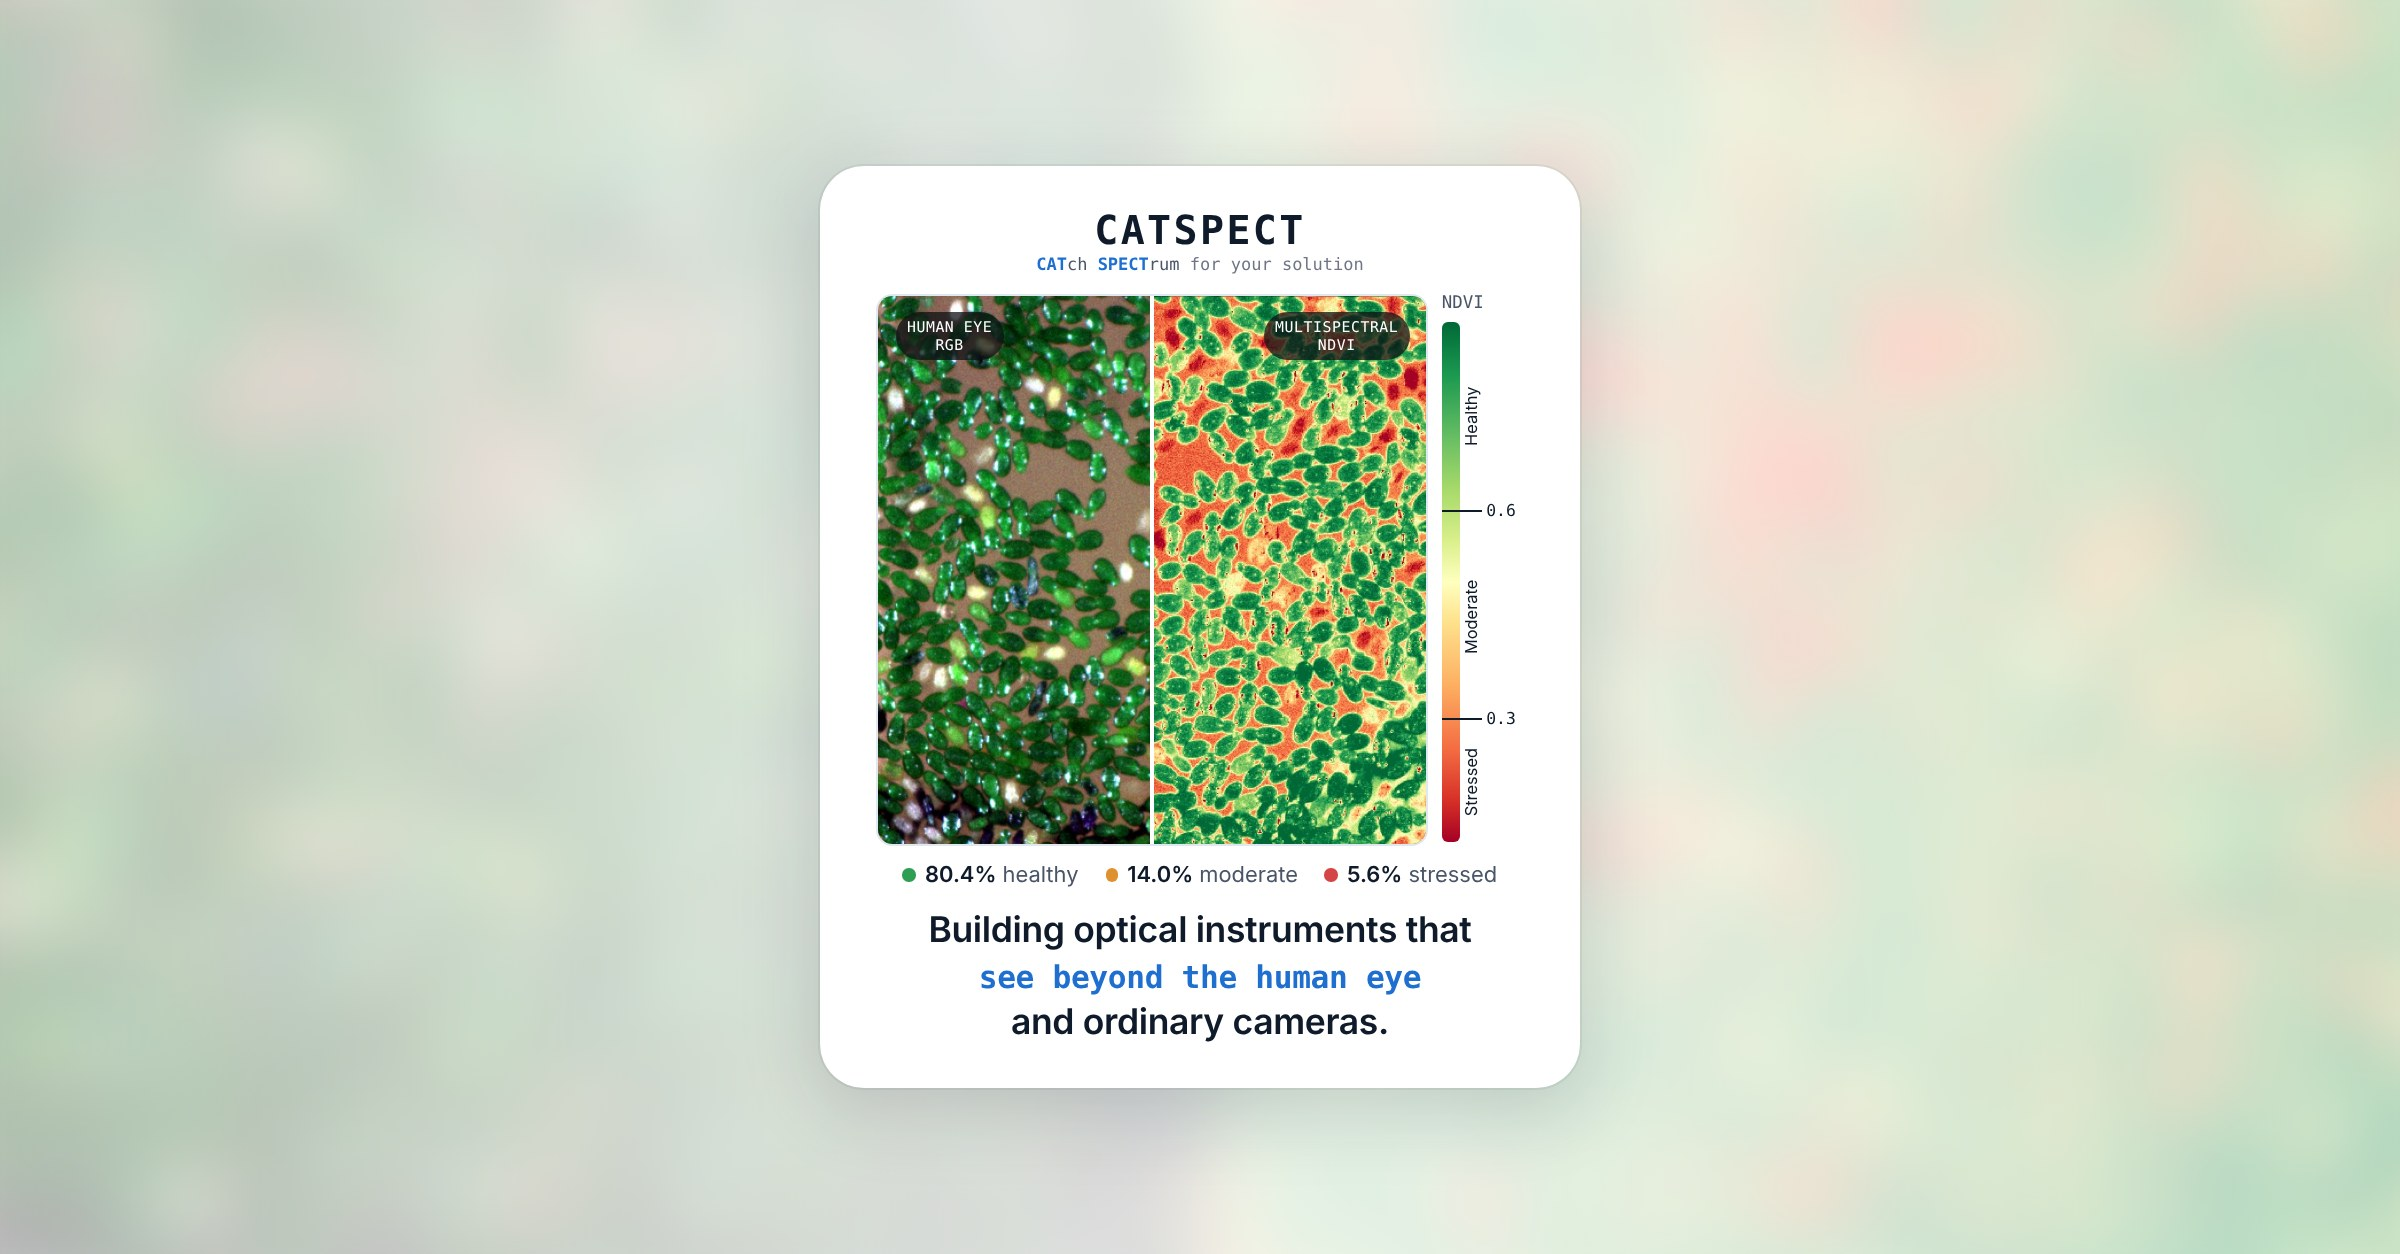
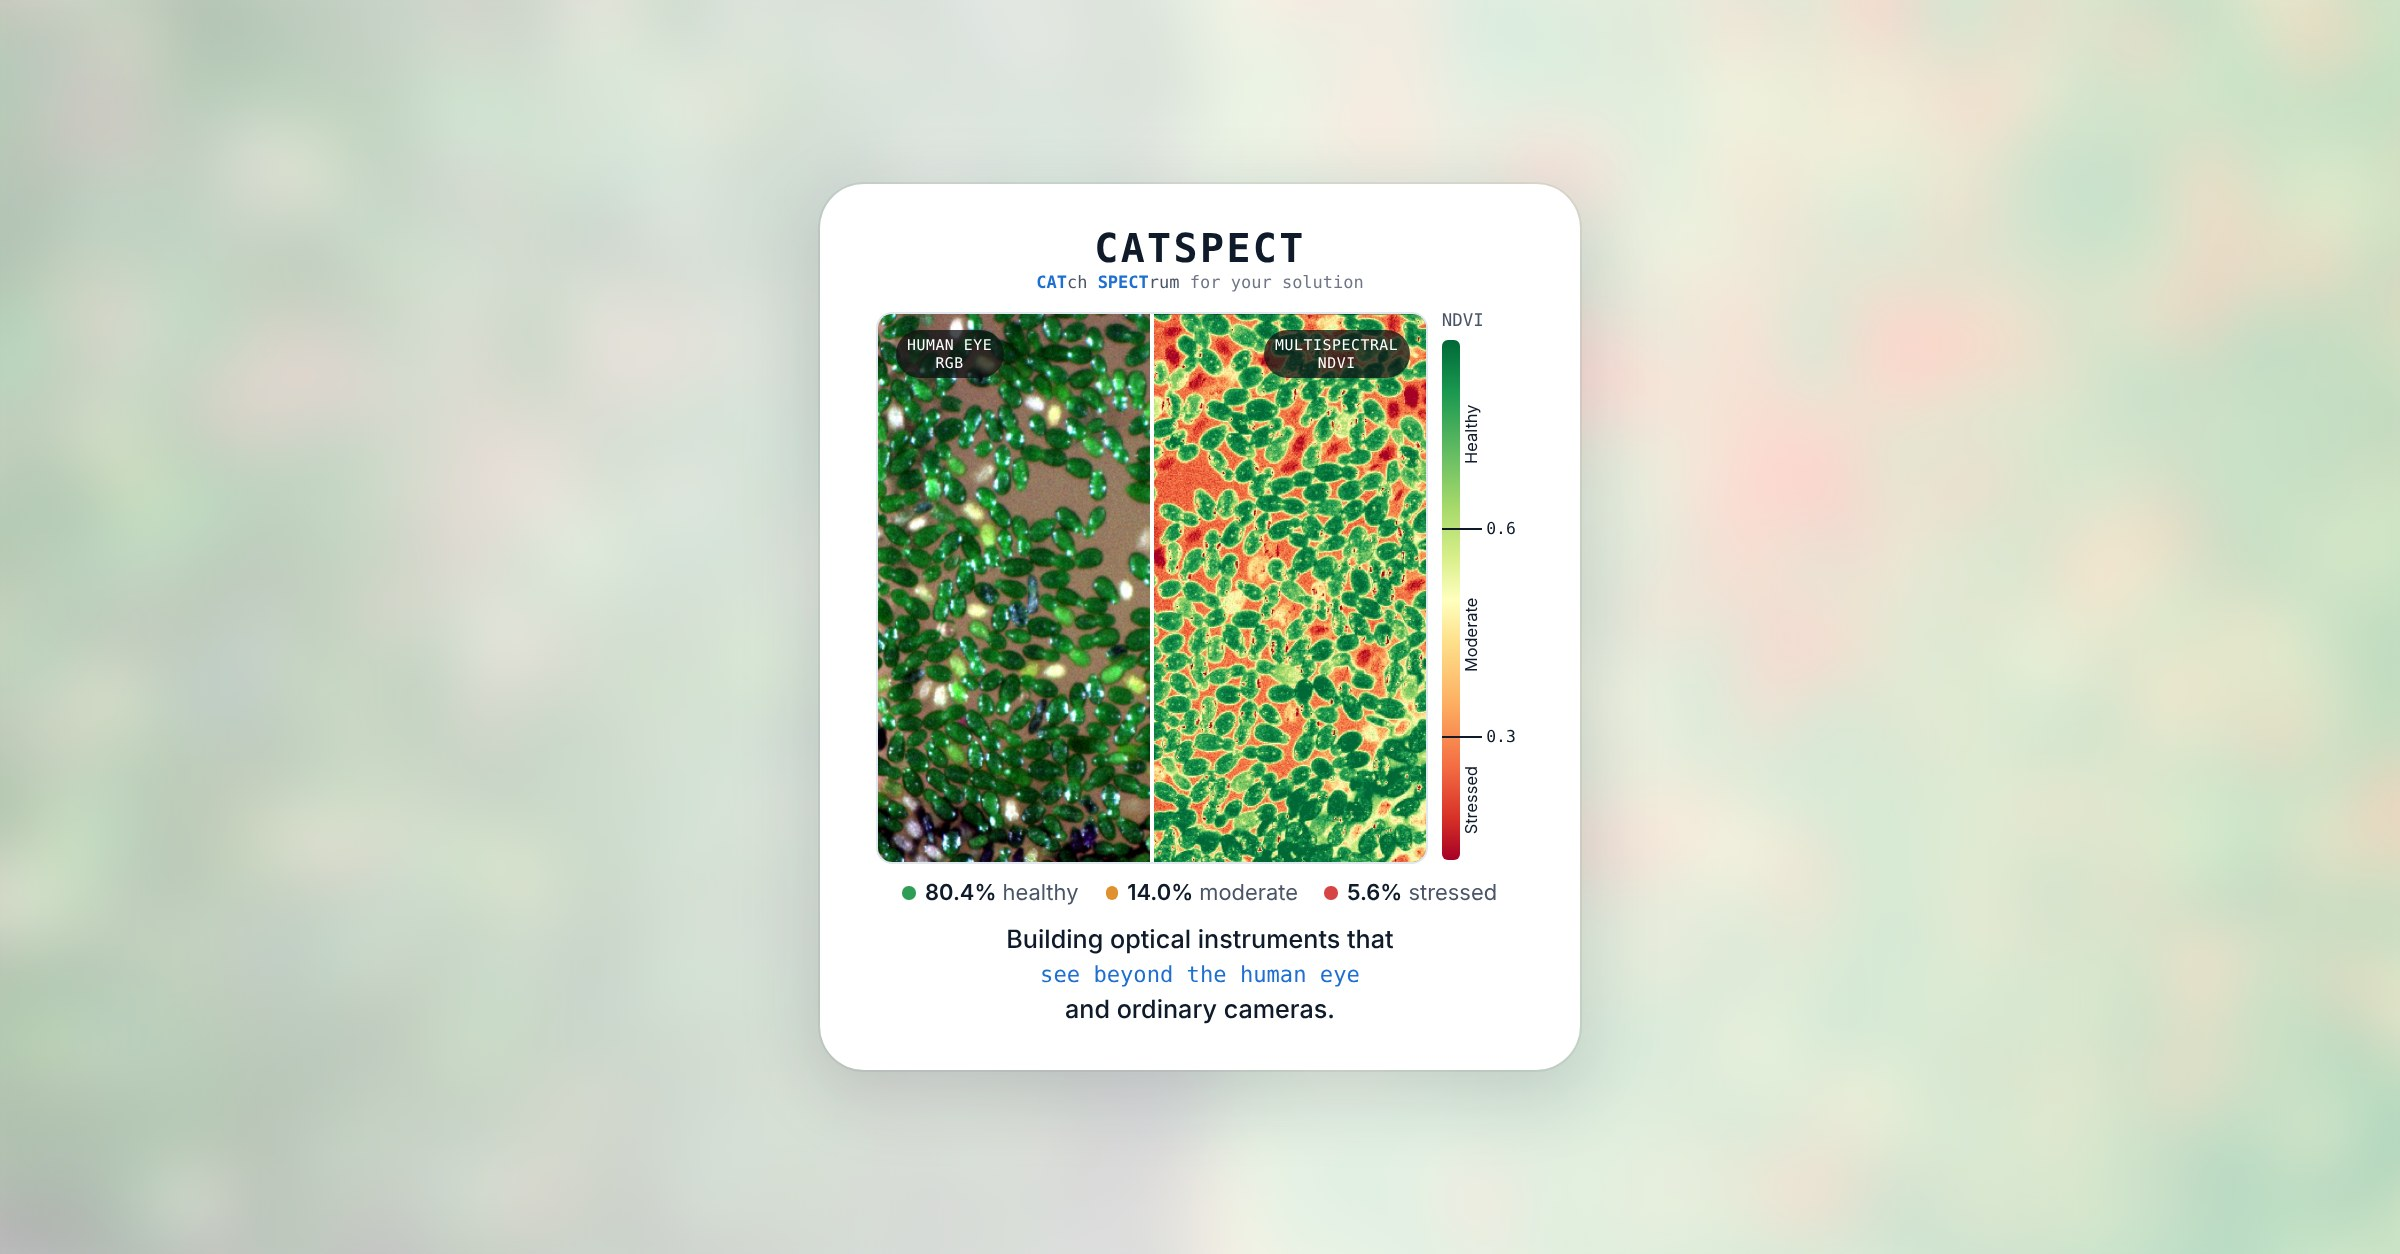
Thumbnail: smaller headline
Claude-Session: https://claude.ai/code/session_01VUU84amyiqJF3KbMs5nbfS

Changed region(s): [[0.3438, 0.1244, 0.6562, 0.8708]]

diff --git a/index.html b/index.html
@@ -12,12 +12,12 @@
 <meta property="og:title" content="CATSPECT: CATch SPECTrum for your solution">
 <meta property="og:description" content="A small team of physics lecturers building optical instruments that see beyond the human eye, from a 3D-printed prototype to a real-time plant-health imager.">
 <meta property="og:url" content="https://plugnawapong.github.io/catspect/">
-<meta property="og:image" content="https://plugnawapong.github.io/catspect/assets/og-image.jpg?v=7">
+<meta property="og:image" content="https://plugnawapong.github.io/catspect/assets/og-image.jpg?v=8">
 <meta property="og:image:width" content="2400">
 <meta property="og:image:height" content="1254">
 <meta property="og:image:alt" content="CATSPECT: a human-eye vs multispectral NDVI view of duckweed">
 <meta name="twitter:card" content="summary_large_image">
-<meta name="twitter:image" content="https://plugnawapong.github.io/catspect/assets/og-image.jpg?v=7">
+<meta name="twitter:image" content="https://plugnawapong.github.io/catspect/assets/og-image.jpg?v=8">
 <script>(function(){var t="sky";try{var v=localStorage.getItem("catspect-theme");if(v==="graphite"||v==="sky")t=v;}catch(e){}document.documentElement.setAttribute("data-style",t);})();</script>
 <link rel="preconnect" href="https://fonts.googleapis.com">
 <link rel="preconnect" href="https://fonts.gstatic.com" crossorigin>
